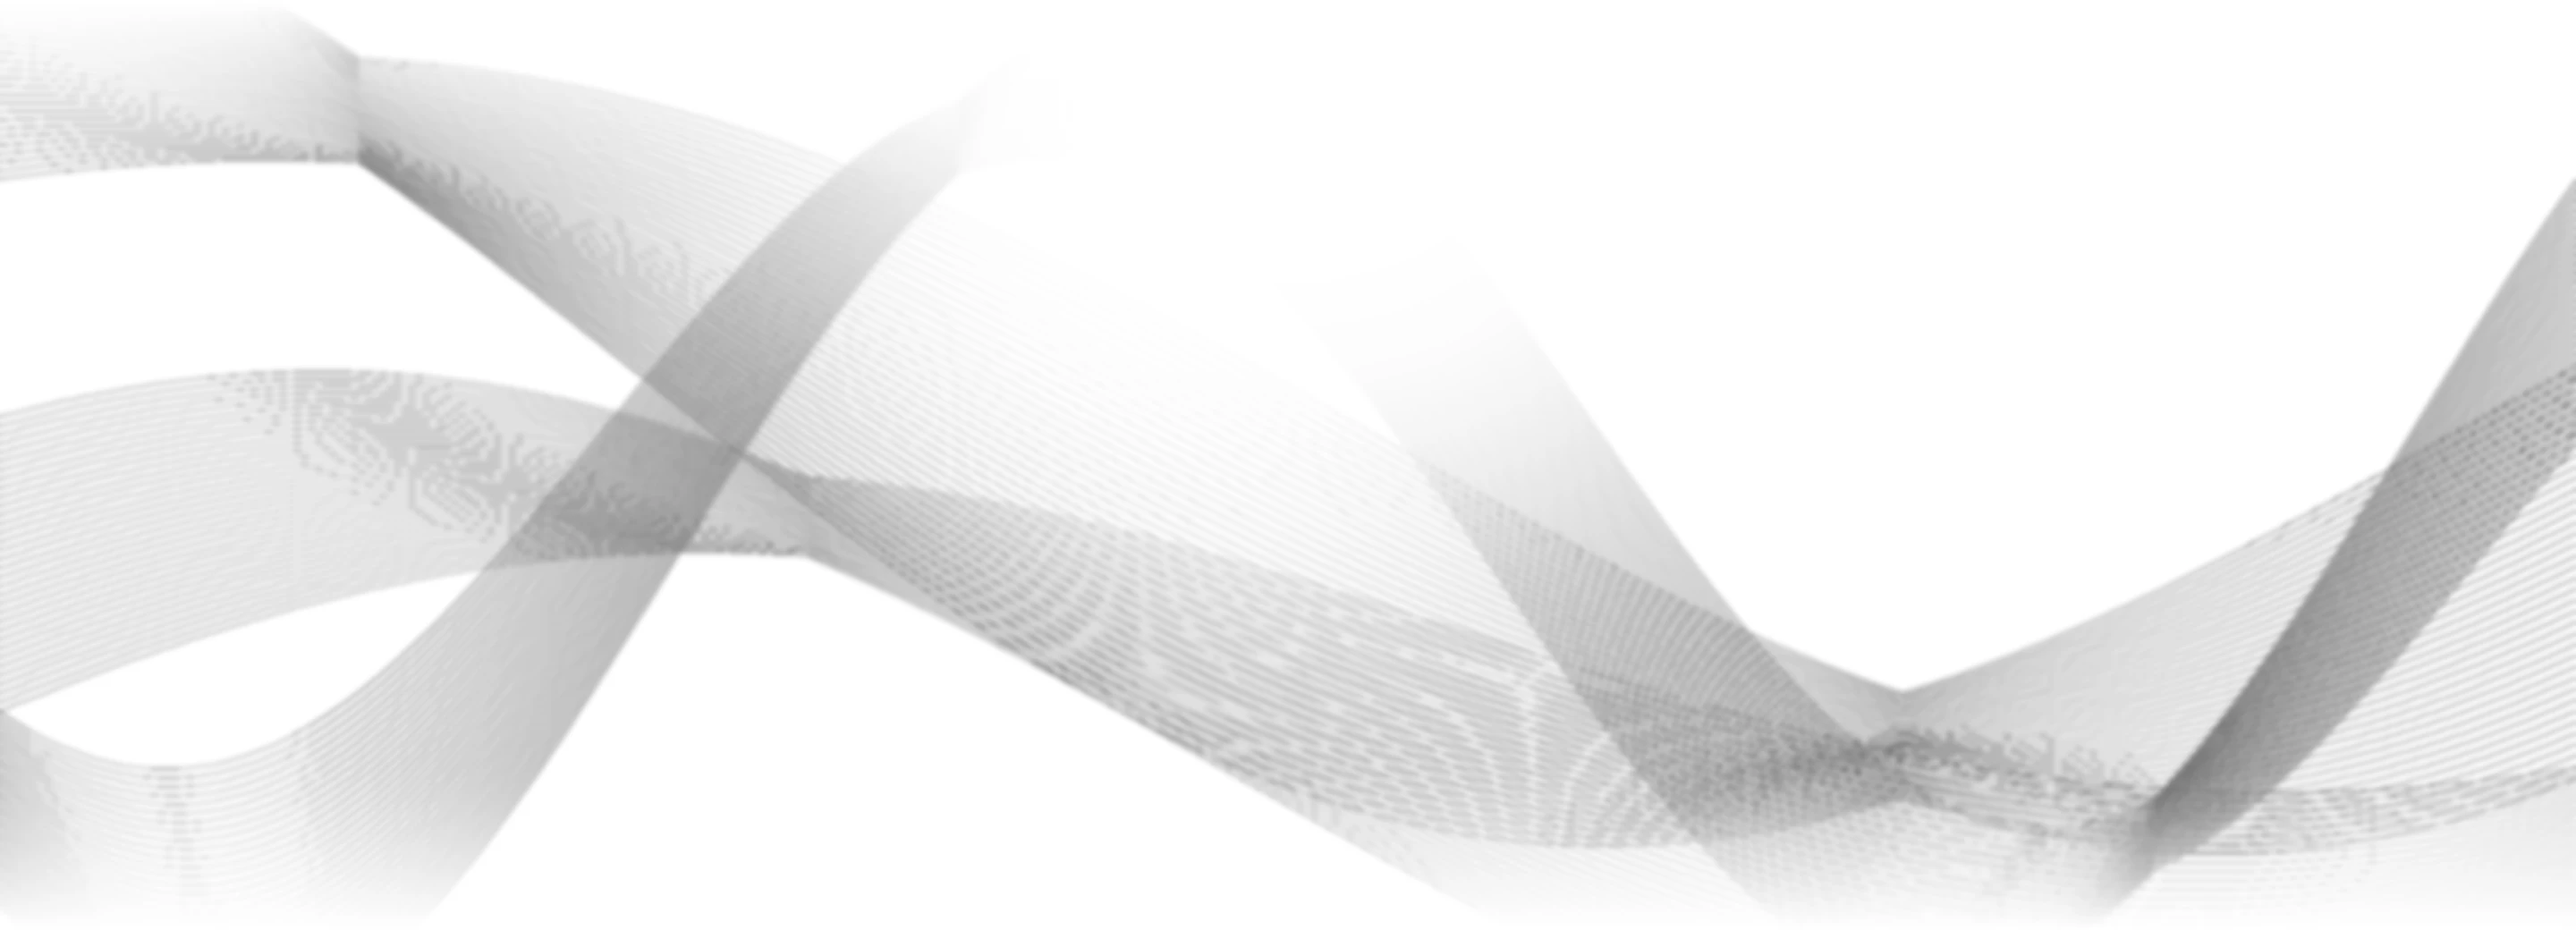
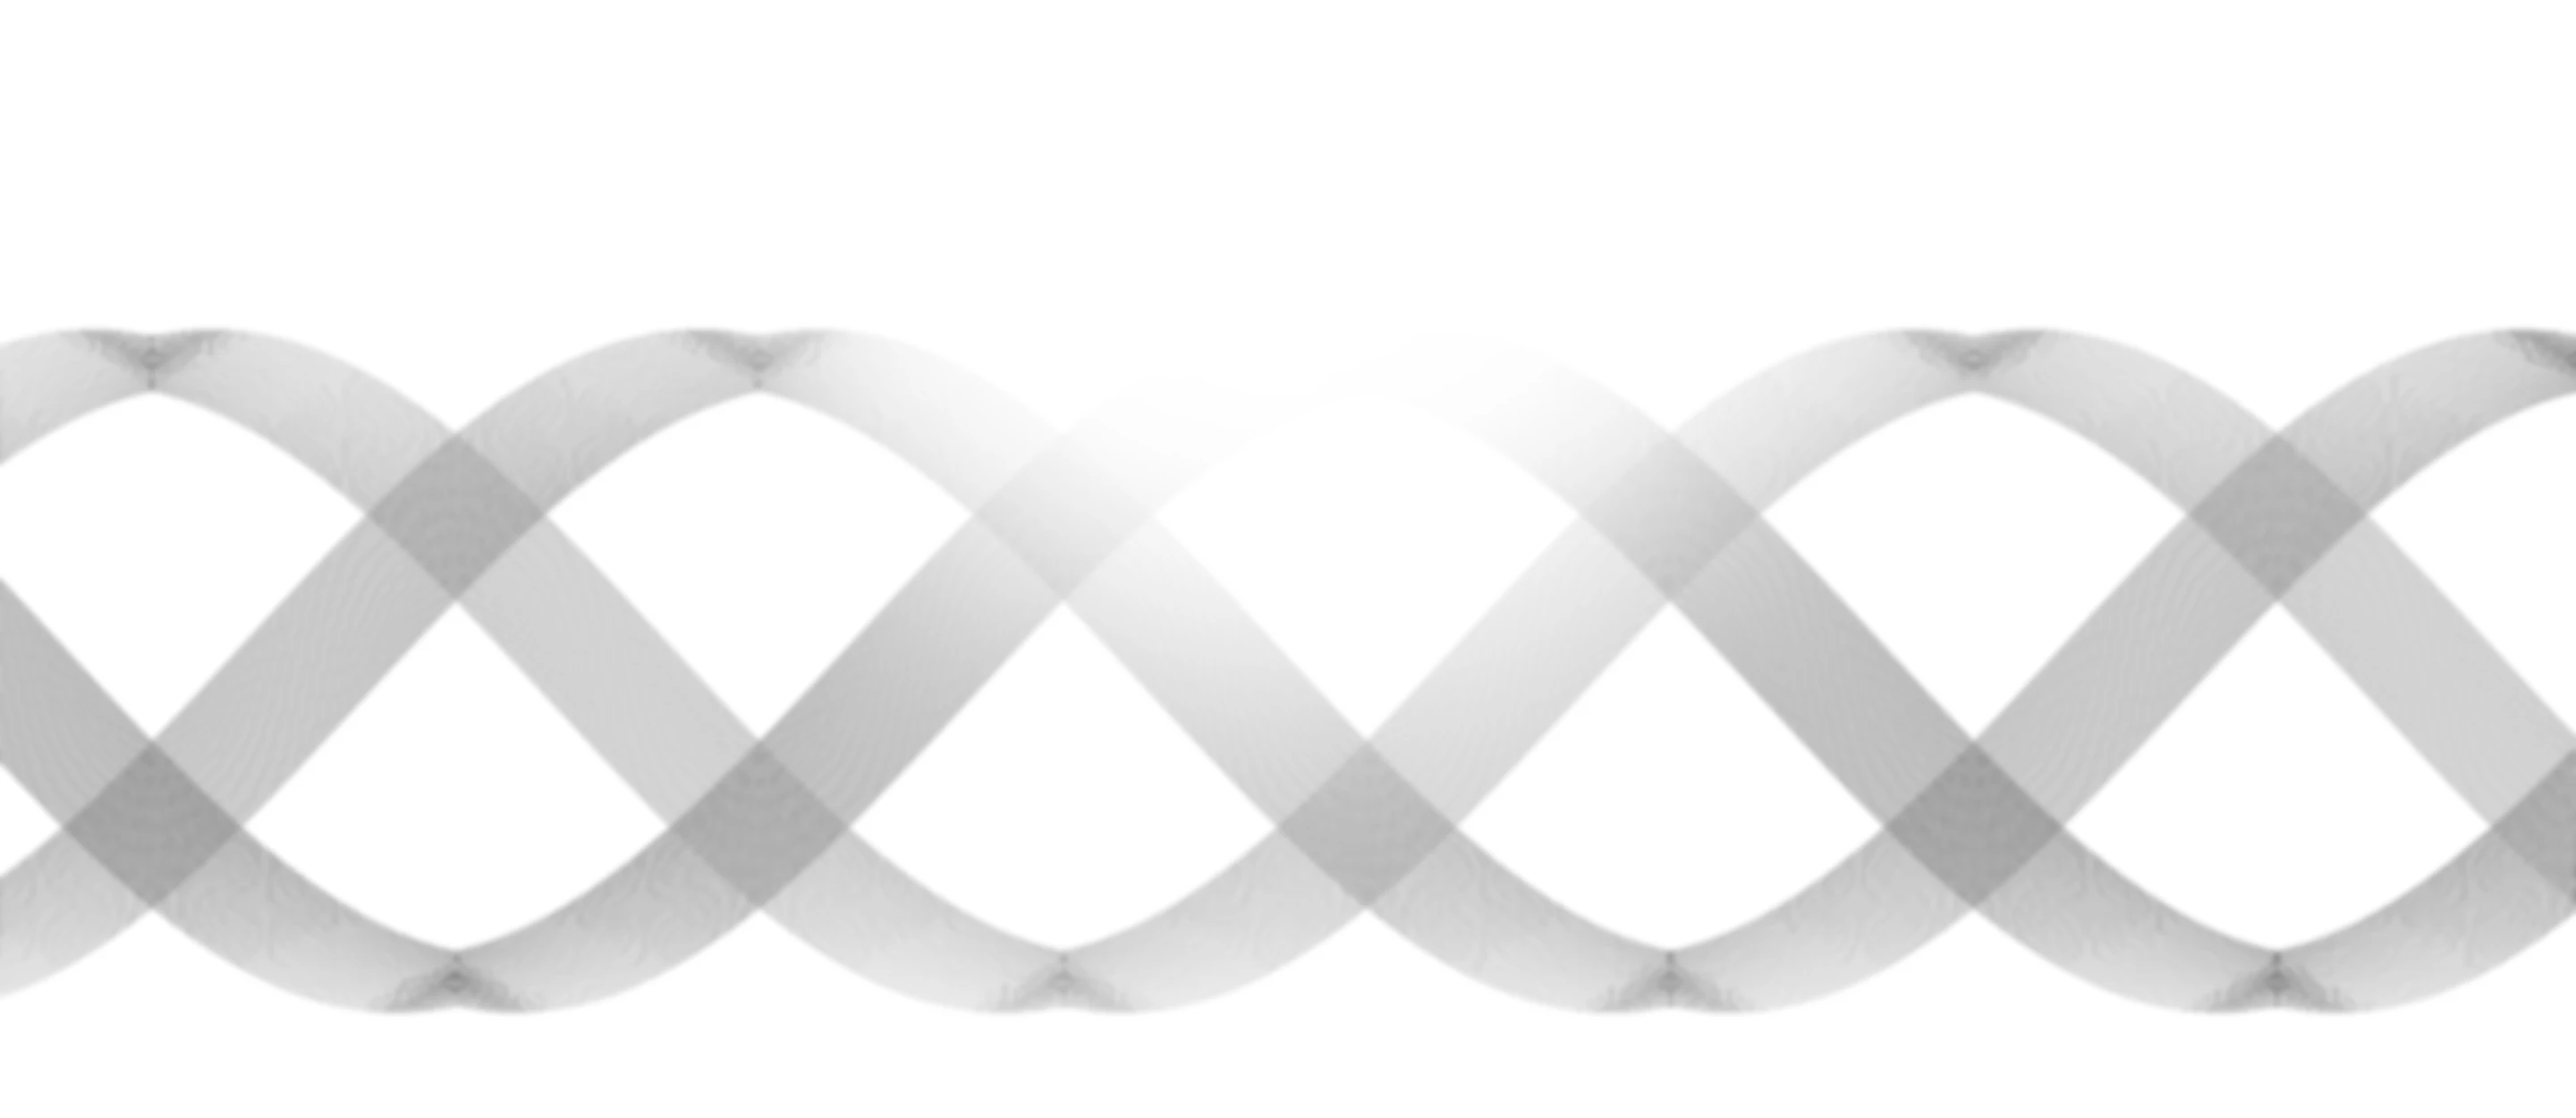
Braid the integrators hero pattern, match the shared hero height
The integrators hero's ribbons become one regular braid across the width, the
same material as the creators hero with its own figure. The hero takes the
shared height under its actions (belowActionsPx).

diff --git a/packages/twenty-website/src/tokens/hero-composition.ts b/packages/twenty-website/src/tokens/hero-composition.ts
@@ -1,17 +1,20 @@
 // The hero's composition, shared by every centered hero (Home, Pricing,
-// Partner, the partner programs): the intro's measures and rhythm, the gap
-// from the CTA row down to the visual, and the room a backdrop-only hero
-// keeps under its actions so the artwork shows below the copy.
+// Partner, Apps, the partner programs): the intro's measures and rhythm, the
+// gap from the CTA row down to the visual, and the hero's height under its
+// actions, the same on every page.
 export const HERO_COMPOSITION: {
   headingMeasurePx: number;
   bodyMeasurePx: number;
   introGapSpacing: number;
   ctaToVisualGapPx: number;
-  backdropRoomPx: number;
+  belowActionsPx: number;
 } = {
   headingMeasurePx: 672,
   bodyMeasurePx: 591,
   introGapSpacing: 8,
   ctaToVisualGapPx: 68,
-  backdropRoomPx: 260,
+  // from the bottom of the actions to the bottom of the hero, its padding
+  // included: the partners globe banner at desktop (0.36 × 1100 + 68), which
+  // every other hero matches
+  belowActionsPx: 464,
 };

diff --git a/packages/twenty-website/src/sections/partner-programs/ProgramHero.tsx b/packages/twenty-website/src/sections/partner-programs/ProgramHero.tsx
@@ -4,7 +4,7 @@ import { type ReactNode } from 'react';
 import { isDefined } from 'twenty-shared/utils';
 
 import { getServerI18n } from '@/platform/i18n/get-server-i18n';
-import { GRADIENT, HERO_COMPOSITION, spacing } from '@/tokens';
+import { GRADIENT, HERO_COMPOSITION, mediaUp, RHYTHM, spacing } from '@/tokens';
 import { Body, Heading, HeadingPair, SectionShell } from '@/ui';
 
 // WhyTwentyHero's composition: centered intro, actions, then the visual.
@@ -27,8 +27,18 @@ const VisualStage = styled.div`
   width: 100%;
 `;
 
+// Without a visual, the room under the actions that brings the hero to the
+// shared height, so the backdrop shows below the copy.
 const BackdropRoom = styled.div`
-  height: ${HERO_COMPOSITION.backdropRoomPx}px;
+  height: calc(
+    ${HERO_COMPOSITION.belowActionsPx}px - ${spacing(RHYTHM.hero.bottom.base)}
+  );
+
+  ${mediaUp('md')} {
+    height: calc(
+      ${HERO_COMPOSITION.belowActionsPx}px - ${spacing(RHYTHM.hero.bottom.md)}
+    );
+  }
 `;
 
 const GradientBackdrop = styled.div`

diff --git a/packages/twenty-website/src/sections/partner-programs/integrator-hero-backdrop.ts b/packages/twenty-website/src/sections/partner-programs/integrator-hero-backdrop.ts
@@ -1,9 +1,11 @@
 import { type HalftoneImageBackdropProps } from '@/platform/visuals/rigs/HalftoneImageBackdrop';
 import { paletteColorNumber } from '@/tokens';
 
-// The integrator hero's full-bleed field: the creator hero's settings
-// (CREATOR_HERO_BACKDROP) on another seed of ribbons.py. Grey dashes with a
-// slow wave, white behind the copy, blue under the cursor.
+// The integrator hero's full-bleed field: three ribbons of fine lines braided
+// across the hero's width (hero_pattern.py, shape « braid »), the creator
+// hero's ribbons drawn as one regular braid. The creator hero's settings
+// (CREATOR_HERO_BACKDROP): grey dashes, slow wave, blue under the cursor,
+// white areas left untouched.
 export const INTEGRATOR_HERO_BACKDROP: Pick<
   HalftoneImageBackdropProps,
   'imageUrl' | 'settings'
